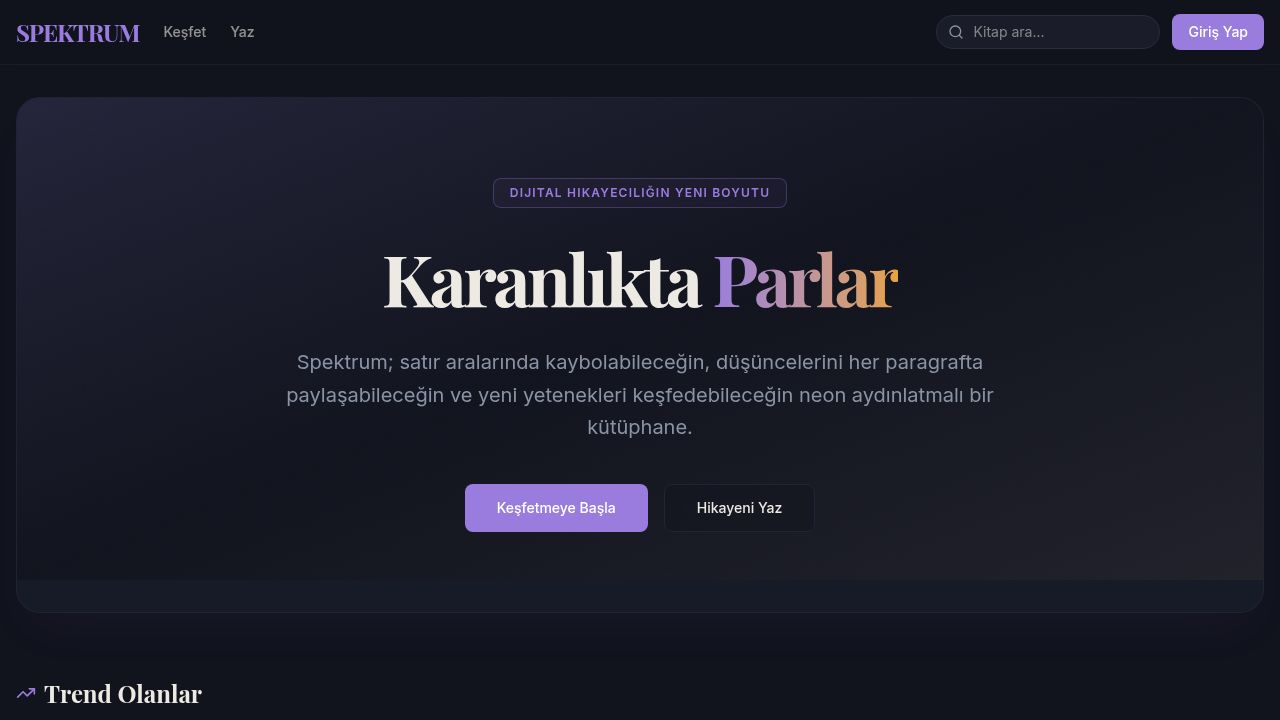
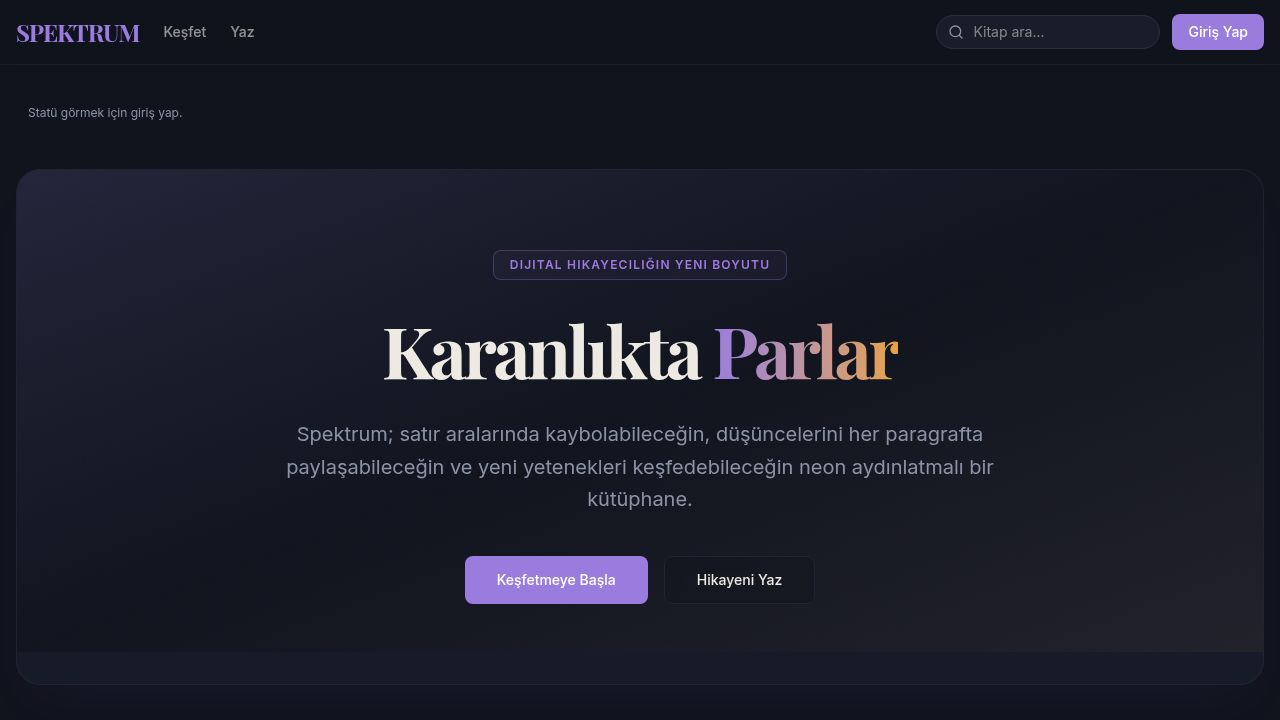
Fix issues with chapter publishing and narration uploads
Address race condition in chapter editor's auto-save, ensure story status updates correctly upon chapter publishing, and implement MIME type fallback for narration audio uploads.

Replit-Commit-Author: Agent
Replit-Commit-Session-Id: 1576fb50-5702-4caf-bb48-bfaf9280a4e1
Replit-Commit-Checkpoint-Type: full_checkpoint
Replit-Commit-Event-Id: a35853b8-929c-4b38-928b-3c85764e56d6
Replit-Commit-Screenshot-Url: https://storage.googleapis.com/screenshot-production-us-central1/b4daaf7c-898e-4f14-b630-1fba06ded765/1576fb50-5702-4caf-bb48-bfaf9280a4e1/7PXGnRn
Replit-Helium-Checkpoint-Created: true

diff --git a/artifacts/spektrum/src/lib/storage-service.ts b/artifacts/spektrum/src/lib/storage-service.ts
@@ -66,10 +66,17 @@ export async function uploadNarrationAudio(_storyId: string, _narratorId: string
 }
 
 export async function uploadNarrationFile(storyId: string, narratorId: string, file: File): Promise<string> {
-  // BUG FIX: Dosyanın gerçek uzantısı ve MIME tipi kullanılıyor (önceden .mp3/audio/mpeg hardcode'du)
   const ext = file.name.split(".").pop()?.toLowerCase() || "mp3";
+  // Bazı tarayıcılar/mobil cihazlar MIME tipini boş bırakır — uzantıdan fallback belirle
+  const MIME: Record<string, string> = {
+    mp3: "audio/mpeg", wav: "audio/wav", m4a: "audio/mp4",
+    aac: "audio/aac", ogg: "audio/ogg", flac: "audio/flac", webm: "audio/webm",
+  };
+  const contentType = file.type && file.type.startsWith("audio/")
+    ? file.type
+    : (MIME[ext] ?? "audio/mpeg");
   const storageRef = ref(storage, `narrations/${storyId}/${narratorId}_${Date.now()}.${ext}`);
-  await uploadBytes(storageRef, file, { contentType: file.type });
+  await uploadBytes(storageRef, file, { contentType });
   return getDownloadURL(storageRef);
 }
 

diff --git a/artifacts/spektrum/src/pages/chapter-editor.tsx b/artifacts/spektrum/src/pages/chapter-editor.tsx
@@ -236,11 +236,14 @@ export default function ChapterEditorPage() {
 
   const [autoSaveLabel, setAutoSaveLabel] = useState<"saved" | "saving" | null>(null);
   const autoSaveTimer = useRef<ReturnType<typeof setTimeout> | null>(null);
+  // Yayınla tıklandıktan sonra auto-save'i engelle (race condition: auto-save "draft" yazmasın)
+  const publishedRef = useRef(false);
 
   useEffect(() => {
     if (!titleVal || !contentVal || chapterId === "new") return;
     if (autoSaveTimer.current) clearTimeout(autoSaveTimer.current);
     autoSaveTimer.current = setTimeout(async () => {
+      if (publishedRef.current) return; // Yayınlandıysa auto-save çalışmasın
       setAutoSaveLabel("saving");
       try {
         await updateChapter(chapterId, { title: titleVal, content: contentVal, status: "draft", wordCount });
@@ -280,6 +283,9 @@ export default function ChapterEditorPage() {
   };
 
   const publishChapter = async (data: FormData) => {
+    // Auto-save timer'ı hemen iptal et — "draft" override'ı engelle
+    if (autoSaveTimer.current) { clearTimeout(autoSaveTimer.current); autoSaveTimer.current = null; }
+    publishedRef.current = true;
     setSaving(true);
     setModerationStatus("checking");
     setModerationReason(null);
@@ -316,8 +322,11 @@ export default function ChapterEditorPage() {
         });
       }
 
+      // Her iki durumda da hikayeyi "published" yap — moderasyonda bile
+      // hikaye discover feed'de chapterCount>0 ile zaten görünür.
+      updateStory(storyId, { status: "published" }).catch(() => {});
+
       if (chapterStatus === "published") {
-        updateStory(storyId, { status: "published" }).catch(() => {});
         toast({ title: "Bölüm yayınlandı! 🎉", description: "İçerik onaylandı ve okuyucularla paylaşıldı." });
       } else {
         toast({ title: "Moderatör incelemesine gönderildi", description: "Bölüm onaylanınca yayınlanacak." });